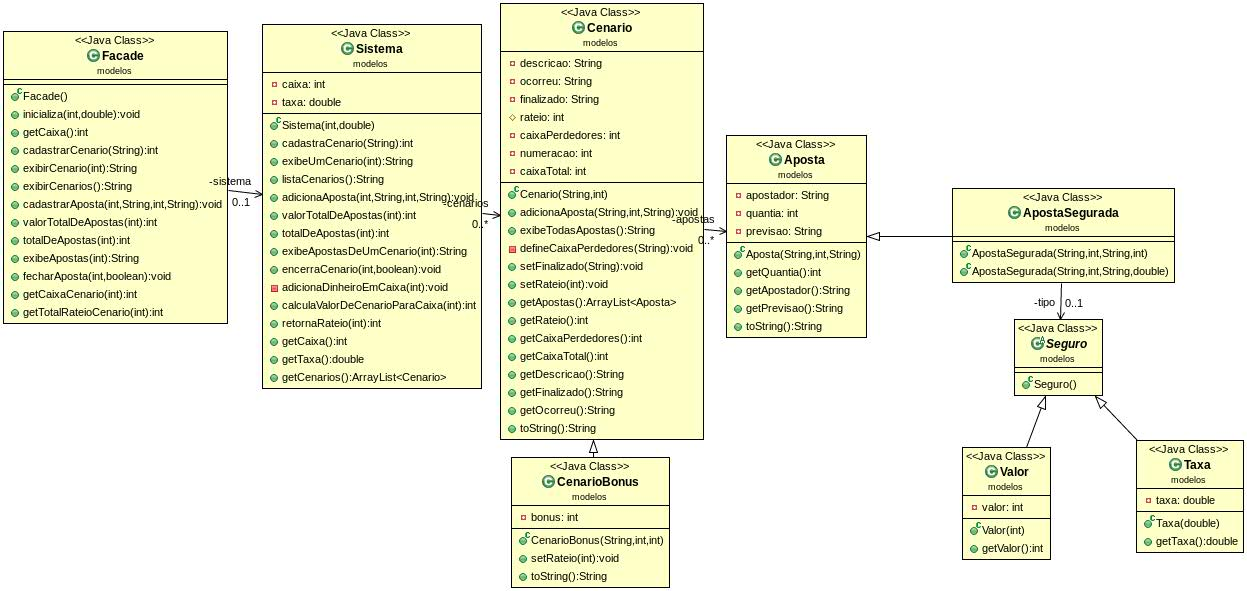
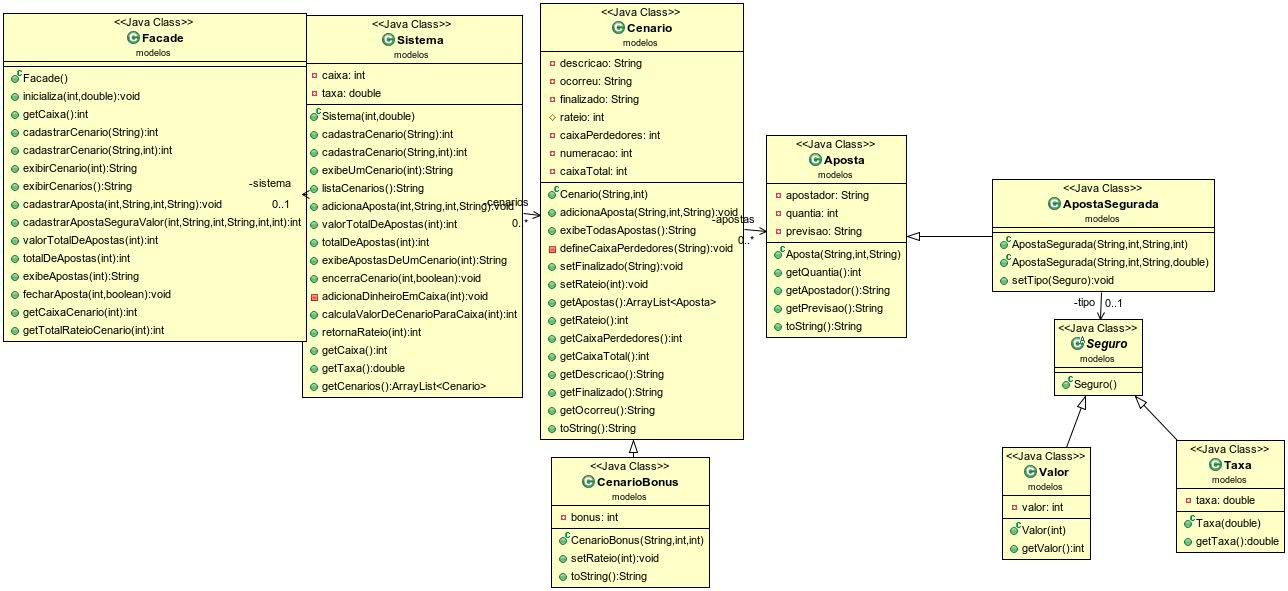
Adicionado algumas funcionalidades

Changed region(s): [[0.0, 0.0, 0.7314, 1.0], [0.7618, 0.5482, 1.0, 0.9442], [0.7618, 0.3046, 0.9447, 0.5178]]

diff --git a/src/modelos/CenarioBonus.java b/src/modelos/CenarioBonus.java
@@ -1,16 +1,22 @@
 package modelos;
 
+import java.util.NoSuchElementException;
+
 public class CenarioBonus extends Cenario{
 	
 	private int bonus;
 	
 	public CenarioBonus(String descricao, int numeracao, int bonus) {
 		super(descricao, numeracao);
+		if (bonus < 0) {
+			throw new NoSuchElementException("Erro na inicializacao: Bonus nao pode ser inferior a 0");
+		}
 		this.bonus = bonus;
 	}
 	
 	/**
-	 * Método que muda o valor do atributo Rateio.
+	 * Método que muda o valor do atributo Rateio e adiciona o bonus determinado para
+	 * o cenário.
 	 * 
 	 * @param valor
 	 *            inteiro que será o valor atribuído ao rateio.
@@ -23,7 +29,7 @@ public class CenarioBonus extends Cenario{
 	 * Método que retorna uma representação textual do cenário. A representação está
 	 * seguinta forma: (Numeração do cenário) - (descrição do cenário) - (situação
 	 * se foi finalizado ou não) - (e se o cenário foi finalizado, a situação se ele
-	 * ocorreu ou não).
+	 * ocorreu ou não) - Bônus a ser somado ao rateio.
 	 * 
 	 * @return String que é a representação textual de Cenário.
 	 */

diff --git a/src/modelos/Sistema.java b/src/modelos/Sistema.java
@@ -60,6 +60,13 @@ public class Sistema {
 		this.cenarios.add(cenario);
 		return this.cenarios.size();
 	}
+	
+	public int cadastraCenario(String descricao, int bonus) {
+		Cenario cenario = new CenarioBonus(descricao, (this.cenarios.size() + 1), bonus);
+		this.cenarios.add(cenario);
+		return this.cenarios.size();
+	}
+	
 
 	/**
 	 * Método que exibe a representação textual de um determinado cenário.
@@ -116,6 +123,8 @@ public class Sistema {
 		}
 		this.cenarios.get(cenario - 1).adicionaAposta(apostador, quantia, previsao);
 	}
+	
+	public int adicionaAposta(int cenario, String apostador, int valor, String previsao, int valor, int custo)
 
 	/**
 	 * Método que retorna o valor total das apostas feitas até o momento em um

diff --git a/src/modelos/Facade.java b/src/modelos/Facade.java
@@ -38,6 +38,10 @@ public class Facade {
 	public int cadastrarCenario(String descricao) {
 		return this.sistema.cadastraCenario(descricao);
 	}
+	
+	public int cadastrarCenario(String descricao, int bonus) {
+		return this.sistema.cadastraCenario(descricao, bonus);
+	}
 
 	/**
 	 * @see Sistema#exibeUmCenario(int)
@@ -58,6 +62,9 @@ public class Facade {
 	 */
 	public void cadastrarAposta(int cenario, String apostador, int valor, String previsao) {
 		this.sistema.adicionaAposta(cenario, apostador, valor, previsao);
+	}
+	
+	public int cadastrarApostaSeguraValor(int cenario, String apostador, int valor, String previsao, int valor, int custo) {
 	}
 
 	/**

diff --git a/src/modelos/ApostaSegurada.java b/src/modelos/ApostaSegurada.java
@@ -14,4 +14,7 @@ public class ApostaSegurada  extends Aposta{
 		this.tipo = new Taxa(taxa);
 	}
 
+	public void setTipo(Seguro tipo) {
+		this.tipo = tipo;
+	}
 }
